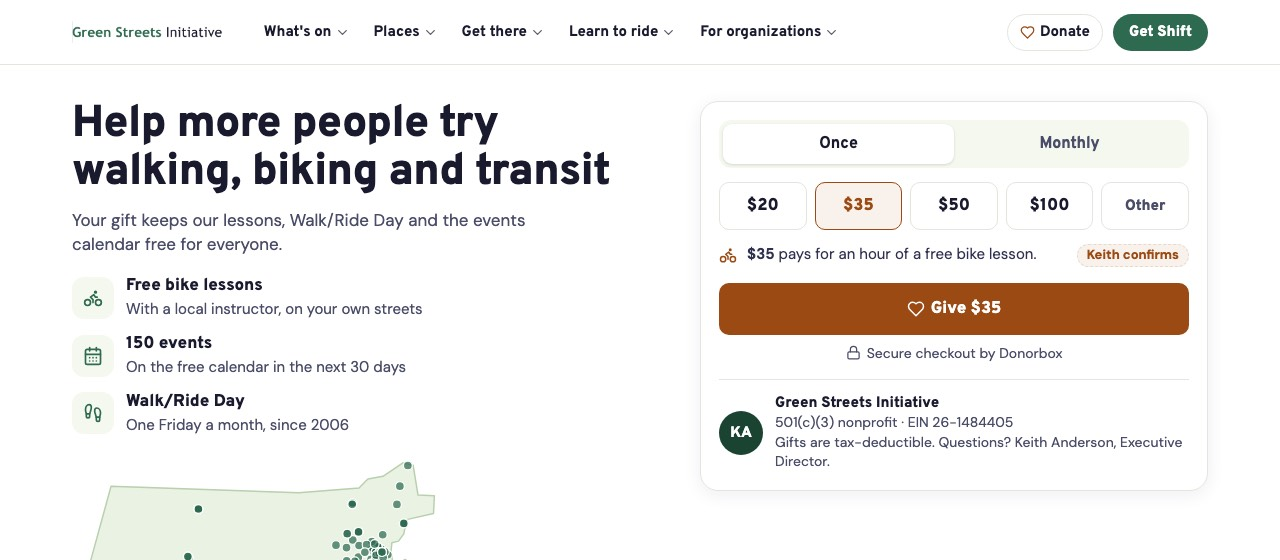
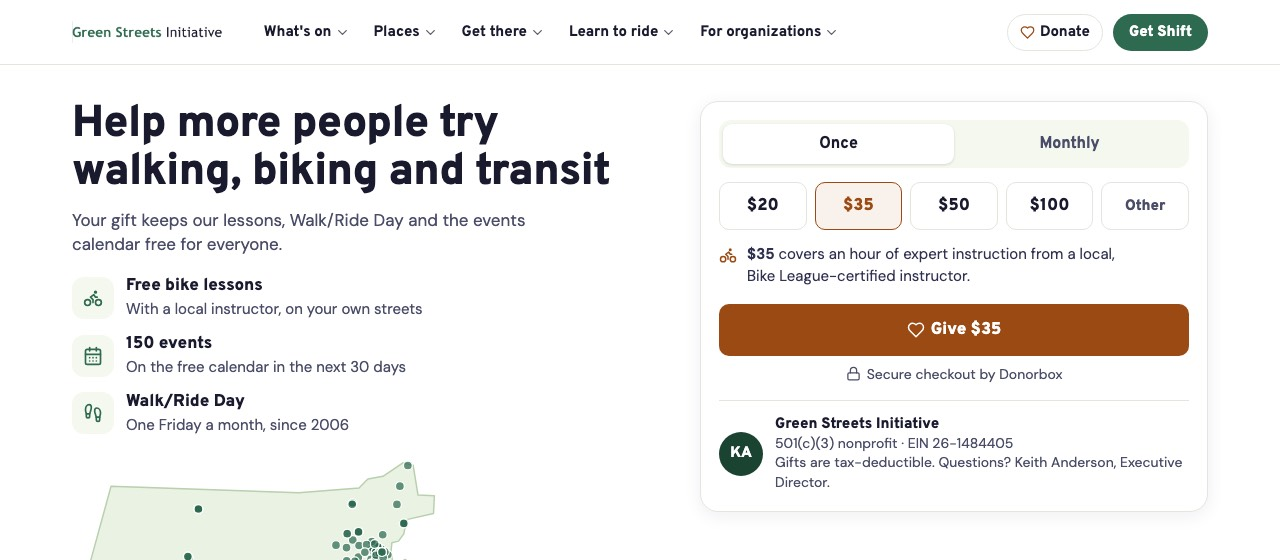
Donate mockup: Keith's lesson line ('$35 covers an hour of expert instruction from a local, Bike League-certified instructor'); confirm tag removed

Changed region(s): [[0.5625, 0.425, 0.9375, 0.8804]]

diff --git a/docs/design-review-2026-11/mock/home/donate.html b/docs/design-review-2026-11/mock/home/donate.html
@@ -134,7 +134,7 @@ section{padding:16px 0}
 <div class="fm" data-f="monthly"><div class="ams"><span class="am">$5</span><span class="am on">$10</span><span class="am">$15</span><span class="am">$25</span><span class="am other">Other</span></div>
 <p class="what"><i data-lucide="tv"></i><span><b>$10 a month</b>, about what a streaming plan costs.</span></p>
 <a class="btn givebtn"><i data-lucide="heart"></i>Give $10 a month</a></div><div class="fm" data-f="once"><div class="ams"><span class="am">$20</span><span class="am on">$35</span><span class="am">$50</span><span class="am">$100</span><span class="am other">Other</span></div>
-<p class="what"><i data-lucide="bike"></i><span><b>$35</b> pays for an hour of a free bike lesson.</span><em>Keith confirms</em></p>
+<p class="what"><i data-lucide="bike"></i><span><b>$35</b> covers an hour of expert instruction from a local, <span style="white-space:nowrap">Bike League-certified</span> instructor.</span></p>
 <a class="btn givebtn"><i data-lucide="heart"></i>Give $35</a></div>
 <p class="sec"><i data-lucide="lock"></i>Secure checkout by Donorbox</p>
 <div class="org"><span class="av">KA</span><p><b>Green Streets Initiative</b>501(c)(3) nonprofit · EIN 26-1484405<br>Gifts are tax-deductible. Questions? Keith Anderson, Executive Director.</p></div>

diff --git a/docs/design-review-2026-11/mock/home/view/donate.html b/docs/design-review-2026-11/mock/home/view/donate.html
@@ -134,7 +134,7 @@ section{padding:16px 0}
 <div class="fm" data-f="monthly"><div class="ams"><span class="am">$5</span><span class="am on">$10</span><span class="am">$15</span><span class="am">$25</span><span class="am other">Other</span></div>
 <p class="what"><i data-lucide="tv"></i><span><b>$10 a month</b>, about what a streaming plan costs.</span></p>
 <a class="btn givebtn"><i data-lucide="heart"></i>Give $10 a month</a></div><div class="fm" data-f="once"><div class="ams"><span class="am">$20</span><span class="am on">$35</span><span class="am">$50</span><span class="am">$100</span><span class="am other">Other</span></div>
-<p class="what"><i data-lucide="bike"></i><span><b>$35</b> pays for an hour of a free bike lesson.</span><em>Keith confirms</em></p>
+<p class="what"><i data-lucide="bike"></i><span><b>$35</b> covers an hour of expert instruction from a local, <span style="white-space:nowrap">Bike League-certified</span> instructor.</span></p>
 <a class="btn givebtn"><i data-lucide="heart"></i>Give $35</a></div>
 <p class="sec"><i data-lucide="lock"></i>Secure checkout by Donorbox</p>
 <div class="org"><span class="av">KA</span><p><b>Green Streets Initiative</b>501(c)(3) nonprofit · EIN 26-1484405<br>Gifts are tax-deductible. Questions? Keith Anderson, Executive Director.</p></div>

diff --git a/docs/design-review-2026-11/mock/home/build_v2.py b/docs/design-review-2026-11/mock/home/build_v2.py
@@ -151,7 +151,7 @@ def donate():
 <p class="what"><i data-lucide="tv"></i><span><b>$10 a month</b>, about what a streaming plan costs.</span></p>
 <a class="btn givebtn"><i data-lucide="heart"></i>Give $10 a month</a>'''
     form_once = f'''<div class="ams">{amts(['20', '35', '50', '100'], '35')}</div>
-<p class="what"><i data-lucide="bike"></i><span><b>$35</b> pays for an hour of a free bike lesson.</span><em>Keith confirms</em></p>
+<p class="what"><i data-lucide="bike"></i><span><b>$35</b> covers an hour of expert instruction from a local, <span style="white-space:nowrap">Bike League-certified</span> instructor.</span></p>
 <a class="btn givebtn"><i data-lucide="heart"></i>Give $35</a>'''
     body = f'''{nav2()}
 <main class="wrap">
